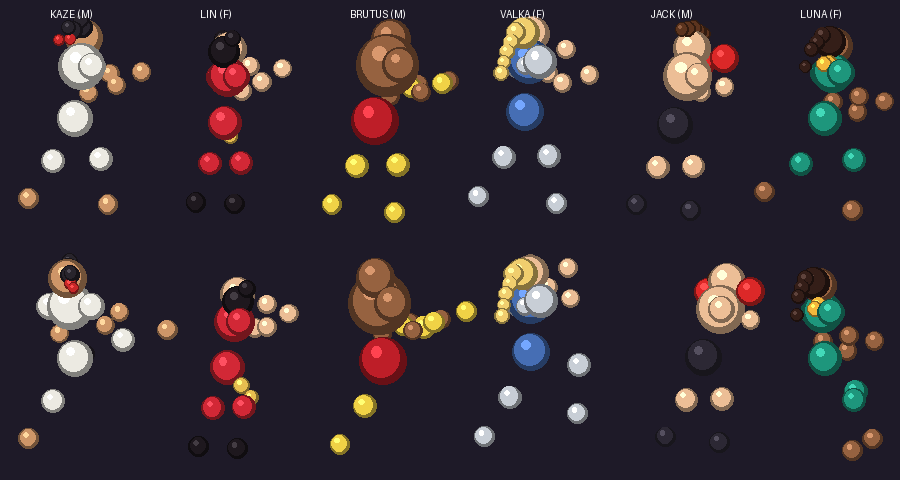
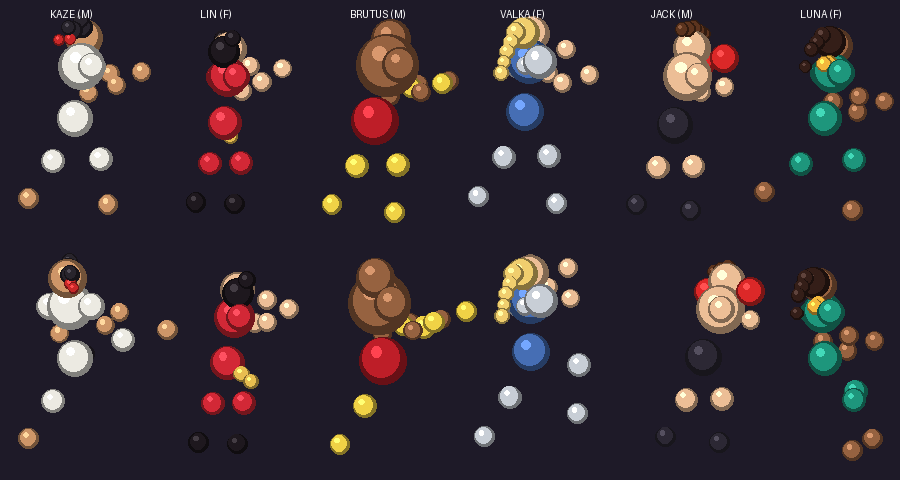
Fix jumping, finisher landing and knockdown poses in the side view
- Restore Up to jump: removing sidestep had dropped the branch label before it.
- A fighter who lands a finisher in mid-air now falls back to the floor.
- Lying poses rest on top of the floor instead of dipping through it.
- Keep a downed fighter near the wall on screen (wider camera range, a little
  less maximum separation).
- Test runner: PROBE=<n> prints watched variables every n frames.

Claude-Session: https://claude.ai/code/session_01AYp4ZF4a7sM6HkKYBYDeSx

Changed region(s): [[0.2178, 0.5625, 0.3422, 0.875], [0.8711, 0.625, 0.9333, 0.6562], [0.7778, 0.5312, 0.8089, 0.5625]]

diff --git a/test/snesrun.py b/test/snesrun.py
@@ -1,7 +1,8 @@
 #!/usr/bin/env python3
 """Headless snes9x (libretro) runner: input scripts, screenshots, RAM pokes and
 frame-rate stats.  Env: SNES9X_CORE (path to snes9x_libretro.so), WATCH="sym ..."
-(print those variables at the end), SNES9X_LEGACY_GSU=1 (old, optimistic Super FX
+(print those variables at the end),
+PROBE=<n> (also print them every n frames), SNES9X_LEGACY_GSU=1 (old, optimistic Super FX
 timing; needs the patched core), FXDBG=<frame> (Super FX busy time from that frame).
 The game samples the pad every video frame, so one-frame taps register.
 usage: snesrun.py rom.sfc script.txt outprefix frames
@@ -77,6 +78,14 @@ def save(f):
     data, w, h, pitch = frame[0]
     img = Image.frombuffer("RGB", (w, h), data, "raw", "BGR;16", pitch, 1)   # RGB565
     img.save("%s_%d.png" % (prefix, f))
+PROBE = int(os.environ.get("PROBE", "0"))   # print WATCH variables every PROBE frames
+syms = {}
+dbg = os.path.join(os.path.dirname(os.path.abspath(rom)), "build", "game.dbg")
+if os.path.exists(dbg):
+    import re
+    for l in open(dbg):
+        m = re.search(r'^sym.*name="([^"]+)".*val=0x([0-9A-Fa-f]+)', l)
+        if m: syms[m.group(1)] = int(m.group(2), 16) & 0x1FFFF
 FXDBG = os.environ.get("FXDBG")           # "frame": dump the Super FX PC histogram from that frame on
 for f in range(nframes):
     if FXDBG and f == int(FXDBG) and hasattr(lib, "fxdbg_clear"): lib.fxdbg_clear()
@@ -87,16 +96,13 @@ for f in range(nframes):
         if pf == f: ram[a & 0x1FFFF] = v & 0xFF
     lib.retro_run()
     if f in shots: save(f)
+    if PROBE and f % PROBE == 0 and syms:
+        print("frame %d" % f, {k: ram[syms[k]] | ram[syms[k] + 1] << 8 for k in os.environ.get("WATCH", "loopCount").split()})
 print("ran", nframes, "frames; button reads", nhits[0])
 
 # frame-rate stats from the build's debug symbols (dbgUp = tile uploads, dbgBusy = NMIs with the GSU still drawing)
 dbg = os.path.join(os.path.dirname(os.path.abspath(rom)), "build", "game.dbg")
-if os.path.exists(dbg):
-    import re
-    syms = {}
-    for l in open(dbg):
-        m = re.search(r'^sym.*name="([^"]+)".*val=0x([0-9A-Fa-f]+)', l)
-        if m: syms[m.group(1)] = int(m.group(2), 16) & 0x1FFFF
+if syms:
     names = ["dbgUp", "dbgBusy", "loopCount"] + os.environ.get("WATCH", "").split()
     vals = {k: ram[syms[k]] | ram[syms[k] + 1] << 8 for k in names if k in syms}
     print("stats", vals)

diff --git a/tools/fighters.py b/tools/fighters.py
@@ -486,6 +486,23 @@ def expand(ch, keys, loop=False):
         prev = tgt
     return frames
 
+def ground(ch, p, J, lag):
+    """keep a pose on top of the floor (the level of the standing feet).  Lying on
+    the back, legs that hang through it swing up at the hip first, so the body
+    still rests flat; anything left below the floor lifts the whole pose."""
+    floor = min(j[1] for j in fk(ch, ch["stance"]))
+    if p["lean"] < -45:
+        p = dict(p)
+        body = min(J[i][1] for i in range(10))          # pelvis, torso, head, arms
+        rest = max(0, floor - body)
+        for hip, knee in (("nhp", 11), ("fhp", 14)):
+            for _ in range(60):
+                if min(J[knee][1], J[knee + 1][1]) + rest >= floor: break
+                p[hip] += 2
+                J = fk(ch, p, lag)
+    low = min(j[1] for j in J) - floor
+    return [(j[0], j[1] - low, j[2]) for j in J] if low < 0 else J
+
 def bake(ch, poses):
     """poses -> joints per frame, with a simple trailing lag for hair / scarves"""
     out = []
@@ -493,6 +510,8 @@ def bake(ch, poses):
     prevhead = None
     for p in poses:
         J = fk(ch, p, lag)
+        # side view: nothing may sink through the floor
+        J = ground(ch, p, J, lag)
         if prevhead is not None:
             vel = (J[3][0] - prevhead[0], J[3][1] - prevhead[1], J[3][2] - prevhead[2])
             lag = v_add(v_mul(lag, 0.6), v_mul(vel, -1.2))

diff --git a/tools/gen_assets.py b/tools/gen_assets.py
@@ -28,8 +28,8 @@ STAGE_SC = 201        # screen pixels per 256 hu at the fighting plane (scale8 a
 FEET_Y = HORIZON + ((CAMH * 2 * STAGE_SC) >> 8)   # where standing feet meet the floor
 FLOORTOP = 152        # screen line of the floor's far edge (a tile boundary)
 STAGE_HALF = 300      # walls, hu either side of the stage centre
-CAMX_MAX = 160        # the camera stops this far from the centre
-MAXSEP = 250          # fighters can't separate further than the screen shows
+CAMX_MAX = 200        # the camera stops this far from the centre
+MAXSEP = 220          # fighters can't separate further than the screen shows
 
 def c5(r, g, b):
     """8-bit-per-channel rgb -> SNES BGR555 word"""
